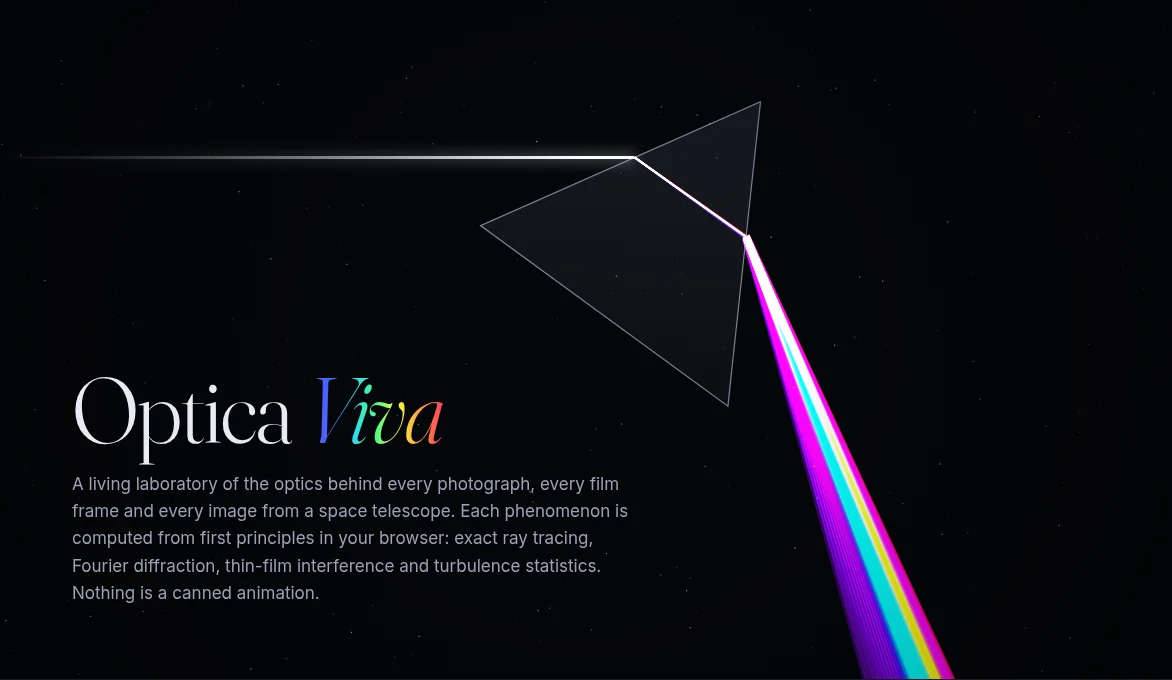
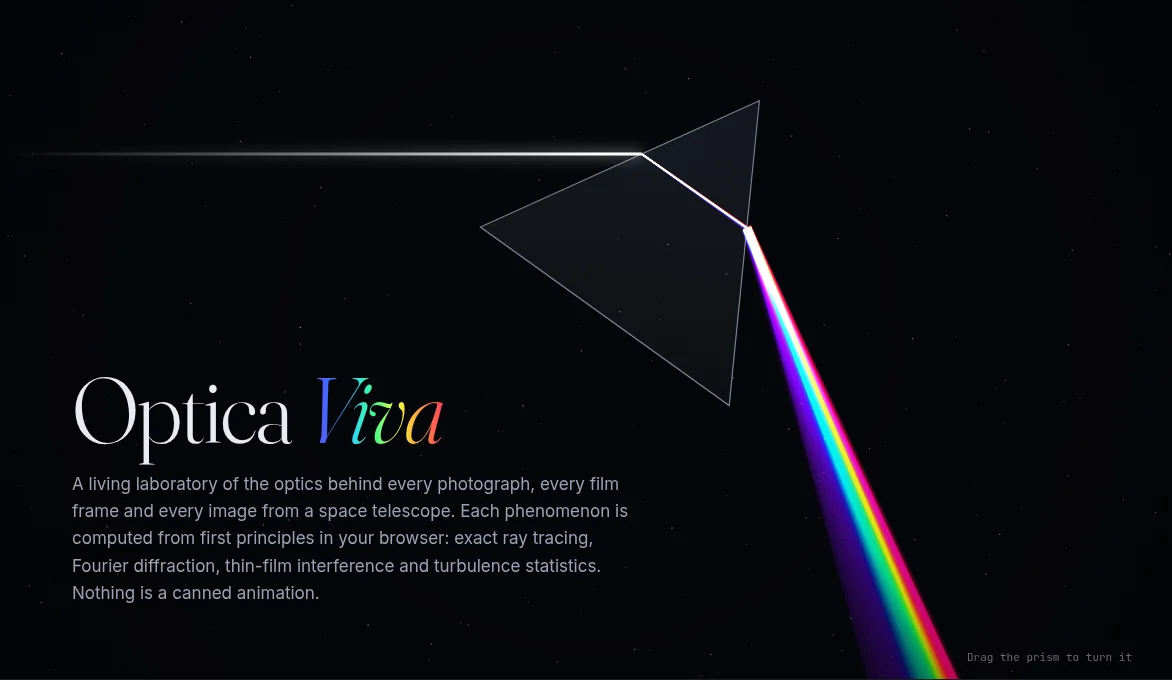
feat(home): card pictures from the real renders, featured labs, draggable hero (#260)
Every home-page card shows a snapshot of its laboratory, captured from
the running page by scripts/thumbs.mjs (npm run thumbs; 400×250 WebP,
lazy-loaded; beside the text on phones). The black hole, PSF and halos
are featured large. The hero spectrum is 90 thin rays whose colours sum
to white, and dragging sideways turns the prism. The "0 precomputed"
statistic now speaks of results computed in the laboratories.

diff --git a/js/modules/home.js b/js/modules/home.js
@@ -4,7 +4,8 @@ import { COUNT } from '../lib/phenomena.js';
 import { index, GLASS_NAMES } from '../lib/glass.js';
 import { LENSES } from '../lib/raytrace.js';
 import { t, N_ } from '../lib/i18n.js';
-import { wavelengthRGB } from '../lib/color.js';
+import { wavelengthRGB, oetf } from '../lib/color.js';
+import { FEATURED, thumbOf } from '../lib/thumbs.js';
 import { PATH } from '../lib/path.js';
 import { TOURS } from '../lib/tours.js';
 
@@ -16,9 +17,13 @@ const READ_2 = N_('Models are chosen to be the most exact that can run interacti
 function heroCanvas() {
   const canvas = h('canvas');
   const ctx = canvas.getContext('2d');
-  let raf, W = 0, H = 0, dpr = 1, mouseY = null;
-  const lambdas = Array.from({ length: 48 }, (_, i) => 400 + (300 * i) / 47);
-  const cols = lambdas.map((l) => wavelengthRGB(l).map((v) => Math.round(v * 255)));
+  let raf, W = 0, H = 0, dpr = 1, mouseY = null, turn = 0, drag = null;
+  // many thin rays whose linear colours are normalised so that together they make white: where
+  // they overlap, just outside the prism, the light is white again, and it fans out into a spectrum
+  const lambdas = Array.from({ length: 90 }, (_, i) => 400 + (300 * i) / 89);
+  const lin = lambdas.map((l) => wavelengthRGB(l, false));
+  const sum = [0, 1, 2].map((c) => lin.reduce((a, v) => a + v[c], 0));
+  const cols = lin.map((v) => { const u = v.map((x, c) => (x / sum[c]) * 26), m = Math.max(...u, 1); return u.map((x) => Math.round(oetf(x / m) * 255)); });
   const stars = Array.from({ length: 220 }, () => [Math.random(), Math.random(), Math.random() ** 3]);
 
   const resize = () => {
@@ -27,7 +32,17 @@ function heroCanvas() {
     canvas.width = W * dpr; canvas.height = H * dpr;
   };
   const ro = new ResizeObserver(resize); ro.observe(canvas);
-  canvas.addEventListener('pointermove', (e) => { const r = canvas.getBoundingClientRect(); mouseY = (e.clientY - r.top) / r.height; });
+  // the beam follows the pointer's height; dragging sideways turns the prism
+  const still = () => { if (reducedMotion()) { cancelAnimationFrame(raf); raf = requestAnimationFrame(frame); } };
+  canvas.addEventListener('pointermove', (e) => {
+    const r = canvas.getBoundingClientRect();
+    if (drag) turn = Math.max(-0.45, Math.min(0.45, drag.turn + ((e.clientX - drag.x) / r.width) * 1.6));
+    else if (e.pointerType === 'mouse') mouseY = (e.clientY - r.top) / r.height;
+    still();
+  });
+  canvas.addEventListener('pointerdown', (e) => { drag = { x: e.clientX, turn }; canvas.setPointerCapture(e.pointerId); canvas.classList.add('dragging'); });
+  const drop = () => { drag = null; canvas.classList.remove('dragging'); };
+  canvas.addEventListener('pointerup', drop); canvas.addEventListener('pointercancel', drop);
 
   function intersect(o, d, poly) {
     let best = null;
@@ -64,7 +79,7 @@ function heroCanvas() {
     const S = Math.min(W, H) * 0.42;
     const cx = W * 0.56, cy = H * 0.36;
     // orientation chosen so a horizontal beam meets the prism near minimum deviation
-    const rot = -Math.PI / 2 + 0.574 + 0.07 * Math.sin(t / 3400);
+    const rot = -Math.PI / 2 + 0.574 + turn + (drag ? 0 : 0.07 * Math.sin(t / 3400));
     const prism = [0, 1, 2].map((k) => [cx + S * 0.62 * Math.cos(rot + (k * 2 * Math.PI) / 3), cy + S * 0.62 * Math.sin(rot + (k * 2 * Math.PI) / 3)]);
     const midY = (prism[0][1] + prism[2][1]) / 2, span = Math.abs(prism[0][1] - prism[2][1]);
     const by = midY + span * (mouseY != null ? (mouseY - 0.5) * 0.6 : 0.12 * Math.sin(t / 2100));
@@ -95,15 +110,16 @@ function heroCanvas() {
         if (inside) return;
         const [r, g, bb] = cols[i];
         // inside the glass: faint
-        ctx.strokeStyle = `rgba(${r},${g},${bb},0.10)`; ctx.lineWidth = 2;
+        ctx.strokeStyle = `rgba(${r},${g},${bb},0.06)`; ctx.lineWidth = 2;
         ctx.beginPath(); pts.forEach((p, k) => (k ? ctx.lineTo(p[0], p[1]) : ctx.moveTo(p[0], p[1]))); ctx.stroke();
-        // emergent fan: glow + core
+        // emergent fan: a faint wide glow and a thin core, fading with distance
         const L = W * 1.5, end = [o[0] + d[0] * L, o[1] + d[1] * L];
         const g2 = ctx.createLinearGradient(o[0], o[1], end[0], end[1]);
-        g2.addColorStop(0, `rgba(${r},${g},${bb},0.55)`); g2.addColorStop(0.5, `rgba(${r},${g},${bb},0.18)`); g2.addColorStop(1, `rgba(${r},${g},${bb},0)`);
-        ctx.strokeStyle = g2; ctx.lineWidth = 7;
-        ctx.beginPath(); ctx.moveTo(o[0], o[1]); ctx.lineTo(end[0], end[1]); ctx.stroke();
-        ctx.lineWidth = 1.4; ctx.stroke();
+        g2.addColorStop(0, `rgba(${r},${g},${bb},0.30)`); g2.addColorStop(0.45, `rgba(${r},${g},${bb},0.12)`); g2.addColorStop(1, `rgba(${r},${g},${bb},0)`);
+        ctx.strokeStyle = g2;
+        ctx.beginPath(); ctx.moveTo(o[0], o[1]); ctx.lineTo(end[0], end[1]);
+        ctx.globalAlpha = 0.18; ctx.lineWidth = 9; ctx.stroke();
+        ctx.globalAlpha = 1; ctx.lineWidth = 1.5; ctx.stroke();
       });
     }
     ctx.globalCompositeOperation = 'source-over';
@@ -128,16 +144,26 @@ export default function mount(root) {
     h('div.hero', {}, hero.canvas,
       h('div.hero-text', {},
         h('h1', { html: 'Optica <em>Viva</em>' }),
-        h('p', {}, t('A living laboratory of the optics behind every photograph, every film frame and every image from a space telescope. Each phenomenon is computed from first principles in your browser: exact ray tracing, Fourier diffraction, thin-film interference and turbulence statistics. Nothing is a canned animation.')))),
+        h('p', {}, t('A living laboratory of the optics behind every photograph, every film frame and every image from a space telescope. Each phenomenon is computed from first principles in your browser: exact ray tracing, Fourier diffraction, thin-film interference and turbulence statistics. Nothing is a canned animation.'))),
+      h('span.hero-hint', { 'aria-hidden': 'true' }, t('Drag the prism to turn it'))),
   );
   const mods = MODULES.map(translated);
+  // a card's picture: a snapshot of the laboratory, captured from the running page
+  const pic = (id, big) => { const src = thumbOf(id); return src && READY.has(id) ? h('img.thumb', { src, alt: '', width: big ? 800 : 400, height: big ? 500 : 250, loading: big ? 'eager' : 'lazy', decoding: 'async' }) : null; };
+  const card = (m, href, kicker, title, blurb, cls = '') => {
+    const p = pic(m.id);
+    return h('a.mcard' + cls + (p ? '.has-thumb' : ''), { href, style: { '--c': m.c } }, p, h('div.mbody', {}, h('span.k', {}, kicker), h('h3', {}, title), h('p', {}, blurb)));
+  };
+  root.append(h('section.block.featured', {}, h('h2', {}, t('Featured laboratories')),
+    h('div.feat', {}, ...FEATURED.map((id) => mods.find((m) => m.id === id)).map((m) =>
+      h('a.fcard', { href: '#/' + m.id, style: { '--c': m.c } }, pic(m.id, true), h('div.fbody', {}, h('span.k', {}, m.group), h('h3', {}, m.title), h('p', {}, m.blurb)))))));
   const groups = [...new Set(mods.filter((m) => m.blurb).map((m) => m.group))];
   root.append(h('section.block', { style: { marginTop: '38px' } },
     h('div.stat-row', {},
       h('div.stat', {}, h('b', {}, `${[...READY].filter((id) => id !== 'home').length} / ${MODULES.length - 1}`), h('span', {}, READY.size >= MODULES.length ? t('interactive laboratories and reference pages') : t('laboratories live (the rest are in progress)'))),
       h('div.stat', {}, h('b', {}, String(COUNT)), h('span', {}, t('catalogued phenomena with governing equations'))),
       h('div.stat', {}, h('b', {}, String(GLASS_NAMES.length)), h('span', {}, t('real glasses (Sellmeier), {n} lens and telescope prescriptions', { n: Object.keys(LENSES).length }))),
-      h('div.stat', {}, h('b', {}, '0'), h('span', {}, t('precomputed images: everything is simulated live'))),
+      h('div.stat', {}, h('b', {}, '0'), h('span', {}, t('precomputed results: every laboratory computes its pictures live'))),
     )));
   let visited = new Set();
   try { visited = new Set(JSON.parse(localStorage.getItem('ov-visited') || '[]')); } catch { /* storage unavailable */ }
@@ -158,12 +184,12 @@ export default function mount(root) {
     h('p.lede', {}, t('A few minutes each: the tour moves the controls for you, one step at a time, and says what to look at.')),
     h('div.cards', {}, ...TOURS.map((tour) => {
       const m = mods.find((x) => x.id === tour.lab);
-      return h('a.mcard', { href: `#/${tour.lab}?tour=${tour.id}`, style: { '--c': m.c } }, h('span.k', {}, t('{lab} · {n} steps', { lab: m.title, n: tour.steps.length })), h('h3', {}, t(tour.title)), h('p', {}, t(tour.blurb)));
+      return card(m, `#/${tour.lab}?tour=${tour.id}`, t('{lab} · {n} steps', { lab: m.title, n: tour.steps.length }), t(tour.title), t(tour.blurb));
     }))));
   for (const g of groups) {
     root.append(h('section.block', {}, h('h2', {}, g),
       h('div.cards', {}, ...mods.filter((m) => m.group === g && m.blurb).map((m) =>
-        h('a.mcard' + (READY.has(m.id) ? '' : '.soon'), { href: '#/' + m.id, style: { '--c': m.c } }, h('span.k', {}, READY.has(m.id) ? m.group : m.group + ' · ' + t('coming soon')), h('h3', {}, m.title), h('p', {}, m.blurb))))));
+        card(m, '#/' + m.id, READY.has(m.id) ? m.group : m.group + ' · ' + t('coming soon'), m.title, m.blurb, READY.has(m.id) ? '' : '.soon')))));
   }
   root.append(h('section.block', {}, h('h2', {}, t('How to read this laboratory')),
     h('div.prose', { html: `<p>${t(READ_1)}</p><p>${t(READ_2)}</p>` })));

diff --git a/css/style.css b/css/style.css
@@ -190,14 +190,46 @@ button.btn:hover, a.btn:hover { border-color: var(--accent); }
 .hero-text { position: absolute; left: clamp(20px, 5vw, 72px); bottom: clamp(28px, 7vh, 72px); max-width: 640px; pointer-events: none; }
 .hero-text h1 { font: 300 clamp(44px, 7vw, 92px)/0.95 var(--font-serif); margin: 0 0 18px; letter-spacing: -0.02em; }
 .hero-text h1 em { font-style: italic; background: var(--spectrum); -webkit-background-clip: text; background-clip: text; color: transparent; }
+.hero canvas { cursor: grab; touch-action: pan-y; }
+.hero canvas.dragging { cursor: grabbing; }
+.hero-hint { position: absolute; right: clamp(16px, 3vw, 40px); bottom: 16px; font: 11px/1 var(--font-mono); color: var(--fg-faint); pointer-events: none; }
+/* featured laboratories: one large, two beside it */
+.feat { display: grid; grid-template-columns: minmax(0, 1.9fr) minmax(0, 1fr); grid-template-rows: auto auto; gap: 14px; }
+.fcard { position: relative; display: block; border-radius: var(--radius); border: 1px solid var(--line); overflow: hidden; color: var(--fg); text-decoration: none !important; background: #05060a; transition: border-color .2s; }
+.fcard:first-child { grid-row: span 2; }
+.fcard:hover { border-color: var(--line-2); }
+.fcard .thumb { display: block; width: 100%; height: 100%; aspect-ratio: 16 / 10; object-fit: cover; transition: transform .6s cubic-bezier(.2, .7, .2, 1); }
+.fcard:hover .thumb { transform: scale(1.025); }
+.fcard .fbody { position: absolute; inset: auto 0 0 0; padding: 40px 20px 16px; background: linear-gradient(180deg, transparent, rgba(5, 6, 10, .78) 45%, rgba(5, 6, 10, .94)); }
+.fcard h3 { font: 500 22px/1.2 var(--font-serif); margin: 0 0 4px; }
+.fcard:first-child h3 { font-size: 30px; }
+.fcard p { margin: 0; color: var(--fg-dim); font-size: 13.2px; line-height: 1.5; max-width: 60ch; }
+.fcard:not(:first-child) p { display: none; }
+.fcard .k { font: 600 10px/1 var(--font-sans); letter-spacing: .14em; text-transform: uppercase; color: var(--c); margin-bottom: 8px; display: block; }
+@media (max-width: 860px) { .feat { grid-template-columns: minmax(0, 1fr); } .fcard:first-child { grid-row: auto; } .fcard:first-child h3 { font-size: 24px; } }
+/* phones: a card's picture beside its text, and the featured cards without their blurb */
+@media (max-width: 600px) {
+  .mcard.has-thumb { flex-direction: row; min-height: 0; }
+  .mcard.has-thumb .thumb { width: 36%; flex: none; aspect-ratio: auto; height: auto; min-height: 112px; border-bottom: 0; border-right: 1px solid var(--line); }
+  .mcard.has-thumb .mbody { padding: 12px 14px; min-width: 0; }
+  .mcard.has-thumb h3 { font-size: 16px; }
+  .mcard.has-thumb p { font-size: 12.6px; display: -webkit-box; -webkit-line-clamp: 3; -webkit-box-orient: vertical; overflow: hidden; }
+  .fcard p { display: none; }
+}
 .hero-text p { color: var(--fg-dim); font-size: 17px; margin: 0; max-width: 54ch; text-shadow: 0 2px 12px #000; }
 .cards { display: grid; grid-template-columns: repeat(auto-fill, minmax(250px, 1fr)); gap: 14px; }
-.mcard { position: relative; display: block; padding: 18px; border-radius: var(--radius); border: 1px solid var(--line); background: linear-gradient(180deg, var(--panel-2), var(--panel)); color: var(--fg); text-decoration: none !important; overflow: hidden; transition: transform .2s, border-color .2s; min-height: 150px; }
+.mcard { position: relative; display: flex; flex-direction: column; padding: 0; border-radius: var(--radius); border: 1px solid var(--line); background: linear-gradient(180deg, var(--panel-2), var(--panel)); color: var(--fg); text-decoration: none !important; overflow: hidden; transition: transform .2s, border-color .2s; min-height: 150px; }
 .mcard:hover { transform: translateY(-3px); border-color: var(--line-2); }
 .mcard::before { content: ''; position: absolute; inset: -40% -40% auto auto; width: 160px; height: 160px; border-radius: 50%; background: radial-gradient(circle, var(--c), transparent 70%); opacity: .18; transition: opacity .2s; }
 .mcard:hover::before { opacity: .32; }
 .mcard h3 { font: 500 18px/1.25 var(--font-serif); margin: 0 0 6px; }
 .mcard p { margin: 0; color: var(--fg-dim); font-size: 13.2px; line-height: 1.5; }
+.mcard .mbody { position: relative; padding: 18px; }
+/* a card's picture: a snapshot of the laboratory, edge to edge above the text */
+.mcard .thumb { display: block; width: 100%; height: auto; aspect-ratio: 16 / 10; object-fit: cover; background: #05060a; border-bottom: 1px solid var(--line); filter: brightness(.88) saturate(.92); transition: filter .25s; }
+.mcard:hover .thumb, .mcard:focus-visible .thumb { filter: none; }
+.mcard.has-thumb::before { display: none; }
+.mcard.has-thumb .mbody { padding-top: 14px; }
 .mcard .k { font: 600 10px/1 var(--font-sans); letter-spacing: .14em; text-transform: uppercase; color: var(--c); margin-bottom: 10px; display: block; }
 .stat-row { display: grid; grid-template-columns: repeat(auto-fit, minmax(160px, 1fr)); gap: 14px; }
 .stat { padding: 14px 16px; border: 1px solid var(--line); border-radius: 12px; background: rgba(255, 255, 255, 0.015); }

diff --git a/js/locales/fr.js b/js/locales/fr.js
@@ -1,6 +1,8 @@
 // French interface strings, keyed by the English text (see js/lib/i18n.js).
 // test/i18n.test.mjs checks that every key is used and every interface string is here.
 export default {
+  "Featured laboratories": "Laboratoires à la une",
+  "Drag the prism to turn it": "Faites glisser le prisme pour le tourner",
   "Open the full laboratory in Optica Viva ↗": "Ouvrir le laboratoire complet dans Optica Viva ↗",
   "The interface is translated; the explanations on this page are still in English.": "L’interface est traduite ; les explications de cette page sont encore en anglais.",
   "This laboratory is under construction and will arrive in an upcoming release. See CHANGELOG.md for progress.": "Ce laboratoire est en construction et arrivera dans une prochaine version. Voir CHANGELOG.md pour l’avancement.",
@@ -87,7 +89,7 @@ export default {
   "laboratories live (the rest are in progress)": "laboratoires en ligne (les autres sont en cours)",
   "catalogued phenomena with governing equations": "phénomènes catalogués avec leurs équations",
   "real glasses (Sellmeier), {n} lens and telescope prescriptions": "verres réels (Sellmeier), {n} formules d’objectifs et de télescopes",
-  "precomputed images: everything is simulated live": "images précalculées : tout est simulé en direct",
+  "precomputed results: every laboratory computes its pictures live": "résultats précalculés : chaque laboratoire calcule ses images en direct",
   "Start here": "Commencer ici",
   "New to optics? Follow this path from everyday photography to the research frontier. Each page starts with the idea in plain words and builds up to the full physics, so stop wherever you like; the order is only a suggestion.": "Débutant en optique ? Suivez ce parcours de la photographie de tous les jours jusqu’au front de la recherche. Chaque page commence par l’idée en mots simples et monte jusqu’à la physique complète ; arrêtez-vous où vous voulez, l’ordre n’est qu’une suggestion.",
   "(opened before)": "(déjà ouvert)",

diff --git a/js/locales/es.js b/js/locales/es.js
@@ -1,6 +1,8 @@
 // Spanish interface strings, keyed by the English text (see js/lib/i18n.js).
 // test/i18n.test.mjs checks that every key is used and every interface string is here.
 export default {
+  "Featured laboratories": "Laboratorios destacados",
+  "Drag the prism to turn it": "Arrastra el prisma para girarlo",
   "Open the full laboratory in Optica Viva ↗": "Abrir el laboratorio completo en Optica Viva ↗",
   "The interface is translated; the explanations on this page are still in English.": "La interfaz está traducida; las explicaciones de esta página siguen en inglés.",
   "This laboratory is under construction and will arrive in an upcoming release. See CHANGELOG.md for progress.": "Este laboratorio está en construcción y llegará en una próxima versión. Consulta CHANGELOG.md para ver el avance.",
@@ -87,7 +89,7 @@ export default {
   "laboratories live (the rest are in progress)": "laboratorios disponibles (el resto está en preparación)",
   "catalogued phenomena with governing equations": "fenómenos catalogados con sus ecuaciones",
   "real glasses (Sellmeier), {n} lens and telescope prescriptions": "vidrios reales (Sellmeier), {n} prescripciones de objetivos y telescopios",
-  "precomputed images: everything is simulated live": "imágenes precalculadas: todo se simula en directo",
+  "precomputed results: every laboratory computes its pictures live": "resultados precalculados: cada laboratorio calcula sus imágenes en directo",
   "Start here": "Empieza aquí",
   "New to optics? Follow this path from everyday photography to the research frontier. Each page starts with the idea in plain words and builds up to the full physics, so stop wherever you like; the order is only a suggestion.": "¿Nuevo en la óptica? Sigue este camino desde la fotografía de todos los días hasta la frontera de la investigación. Cada página empieza con la idea en palabras sencillas y sube hasta la física completa; detente donde quieras, el orden es solo una sugerencia.",
   "(opened before)": "(ya abierta)",

diff --git a/js/locales/de.js b/js/locales/de.js
@@ -1,6 +1,8 @@
 // German interface strings, keyed by the English text (see js/lib/i18n.js).
 // test/i18n.test.mjs checks that every key is used and every interface string is here.
 export default {
+  "Featured laboratories": "Ausgewählte Labore",
+  "Drag the prism to turn it": "Prisma ziehen, um es zu drehen",
   "Open the full laboratory in Optica Viva ↗": "Das vollständige Labor in Optica Viva öffnen ↗",
   "The interface is translated; the explanations on this page are still in English.": "Die Oberfläche ist übersetzt; die Erklärungen auf dieser Seite sind noch auf Englisch.",
   "This laboratory is under construction and will arrive in an upcoming release. See CHANGELOG.md for progress.": "Dieses Labor ist im Aufbau und kommt mit einer der nächsten Versionen. Den Fortschritt zeigt CHANGELOG.md.",
@@ -87,7 +89,7 @@ export default {
   "laboratories live (the rest are in progress)": "Labore online (die übrigen sind in Arbeit)",
   "catalogued phenomena with governing equations": "katalogisierte Phänomene mit ihren Gleichungen",
   "real glasses (Sellmeier), {n} lens and telescope prescriptions": "echte Gläser (Sellmeier), {n} Objektiv- und Teleskop-Rezepturen",
-  "precomputed images: everything is simulated live": "vorberechnete Bilder: alles wird live simuliert",
+  "precomputed results: every laboratory computes its pictures live": "vorberechnete Ergebnisse: jedes Labor berechnet seine Bilder live",
   "Start here": "Hier anfangen",
   "New to optics? Follow this path from everyday photography to the research frontier. Each page starts with the idea in plain words and builds up to the full physics, so stop wherever you like; the order is only a suggestion.": "Neu in der Optik? Folge diesem Pfad von der Alltagsfotografie bis zur Forschungsfront. Jede Seite beginnt mit der Idee in einfachen Worten und baut bis zur vollständigen Physik auf; hör auf, wo du willst, die Reihenfolge ist nur ein Vorschlag.",
   "(opened before)": "(schon geöffnet)",

diff --git a/js/lib/thumbs.js b/js/lib/thumbs.js
@@ -1,0 +1,6 @@
+// Pictures on the home page's cards: img/thumbs/<lab>.webp, captured from the running laboratory
+// by scripts/thumbs.mjs (npm run thumbs). Pages without a picture keep a text card; FEATURED
+// laboratories are shown large at the top, captured at twice the size.
+export const NO_THUMB = new Set(['foundations', 'catalogue']);
+export const FEATURED = ['blackhole', 'psf', 'atmospheric'];
+export const thumbOf = (id) => (NO_THUMB.has(id) ? null : `img/thumbs/${id}.webp`);

diff --git a/CLAUDE.md b/CLAUDE.md
@@ -12,7 +12,7 @@ Use the most precise model that runs interactively, and state every approximatio
 - Static HTML/CSS + vanilla ES modules. **No build step, no runtime dependencies** except vendored KaTeX (`vendor/katex/`). Must work offline.
 - Run: `npm start` (= `python3 -m http.server 8000`). Hash router: `#/<lab-id>`. Live site: https://iiogurt.github.io/Optica_Viva/ (deployed from `main` by `.github/workflows/pages.yml`; keep all paths relative). The deployed site is assembled by `scripts/site.mjs` from an explicit list (`SITE`); a new top-level runtime file must be added there. `npm run smoke` runs against that assembled site, and `test/site.test.mjs` checks it holds every precached, manifest, `index.html` and `js/` reference.
 - `js/app.js`: lab registry (`MODULES`) and `READY` set. `js/lib/`: numerical core (fft, color, glass, raytrace, pupil, thinfilm, sensors, phenomena, plot, ui, page). `js/modules/<id>.js`: one page each, exporting `mount(root, meta)` that returns a cleanup function.
-- New lab: create the module, register it in `MODULES` and `READY`, link it from `js/lib/phenomena.js`, add a screenshot entry in `scripts/screenshots.mjs`. Whenever files are added to or removed from `css/`, `js/`, `img/`, `icons/` or the vendored KaTeX, run `node scripts/precache.mjs --write` (the service worker's offline list; `npm run check` fails otherwise).
+- New lab: create the module, register it in `MODULES` and `READY`, link it from `js/lib/phenomena.js`, add a screenshot entry in `scripts/screenshots.mjs`, and capture its home-page card picture with `npm run thumbs -- <id>` (`test/thumbs.test.mjs` fails without it). Whenever files are added to or removed from `css/`, `js/`, `img/`, `icons/` or the vendored KaTeX, run `node scripts/precache.mjs --write` (the service worker's offline list; `npm run check` fails otherwise).
 - Explanation ladder (simple → exact, all visible, no level switch): after `header()`, `idea(html, tries)` gives the phenomenon in plain words (no math, ≤ 120 words, aimed at ~9 years of schooling, every term explained, at most one analogy that says where it breaks) and 1–3 "try it" prompts (predict, then check). The live calculation calls `calc.say(html)` with the result in a sentence before the equations. Before `theory()`, `rule(html, limits)` gives one formula, a worked number and where it stops working. New technical terms used in page text get a one-sentence definition in `js/lib/glossary.js` (marked automatically on first use); a known misconception can get a predict-then-reveal question in `js/lib/misconceptions.js`. `test/ladder.test.mjs` enforces the ladder on every lab in `READY` (pages without a live calculation, like `foundations`, skip `say`).
 - Interface strings: wrap them in `t('English text')` (or mark with `N_()` and translate with `t(variable)`) from `js/lib/i18n.js` and add the translation to every `js/locales/*.js`; `test/i18n.test.mjs` fails otherwise. New laboratory titles and blurbs in `MODULES`, control labels, options and hints, readout names, figure captions and `liveCalc()` titles count as interface strings (the toolkit translates them; write them as complete literals). Laboratory explanations stay English for now.
 - Style: match the surrounding code; dark design system in `css/style.css`. Theory text goes in `String.raw` templates with `\( \)` / `\[ \]` math (never `$`). Never put a `//` comment inside a one-line `{ … }` block.

diff --git a/ROADMAP.md b/ROADMAP.md
@@ -78,7 +78,7 @@ flowchart LR
 | Laboratories | 64 pages, including 9 missions and the reference pages | see Planned milestones |
 | Catalogue entries | 239, each with details and a worked example | link every new lab |
 | Lens prescriptions | 15: camera lenses from the Petzval to the Biogon, Hubble, a Cassegrain and a three-mirror anastigmat; aspheres, mirrors, model glasses and file import | (none planned) |
-| Automated tests | 477 tests (physics, blur, lens I/O, ghosts, bokeh, polarisation, macro, colour, AO) + link check + browser smoke test in CI | more coverage per new lab |
+| Automated tests | 478 tests (physics, blur, lens I/O, ghosts, bokeh, polarisation, macro, colour, AO) + link check + browser smoke test in CI | more coverage per new lab |
 | Deployment | GitHub Pages, deployed from `main` by CI | (none) |
 
 ---
@@ -567,7 +567,7 @@ Candidates, in order of how much the third dimension adds:
 - [x] **P1 · M** **Stage-first laboratory layout**: the picture and its controls start on the first screen and the page tools take one row. *From 1600 px the idea, the things to try, the intuition check and the tour are a column beside the simulation; below that they stay above it in a shorter block (three columns would shrink the picture by a third).*
 - [x] **P1 · M** **Chart redesign**: legends outside the plot area, a hover readout on every chart, and any figure enlarged to the window on demand. *The readout is linked to the picture on the PSF page (`st.hover`, `st.mark`, `st.over` in `js/lib/ui.js`); other pages can follow.*
 - [x] **P1 · L** **Image pipeline**: one shared path that renders at device pixels, shows a fast preview and refines when idle, with one tone curve and dithering. *`js/lib/pixels.js` (Catmull–Rom sampling, a tone curve with a soft toe, an sRGB table, dithering, a half-resolution preview refined in slices) draws the PSF, pupil and black-hole pictures; the black hole is traced again at the canvas's resolution with 2×2 rays per pixel. `paintMap` (a field through a colour table, with masks whose outer edge is sharpened) draws the Zernike, ray-tracer, coronagraph, lucky-imaging and interferometry pictures. Other laboratories can move to it when they are next changed; animations such as seeing keep the browser's scaling, which is fast enough per frame. Wide-gamut output moved to the backlog.*
-- [ ] **P2 · M** **Live home page**: a thumbnail of the real render on every card, a few featured laboratories shown large, and a hero that can be dragged.
+- [x] **P2 · M** **Live home page**: a picture of the real render on every card, a few featured laboratories shown large, and a hero that can be dragged. *Card pictures are snapshots captured from the running laboratories (`npm run thumbs`, 400 × 250 WebP, about 6 KB each, loaded as the page scrolls); on phones the picture sits beside the text. The black hole, the PSF and the halos are featured. The hero's spectrum is 90 thin rays whose colours add up to white, and dragging sideways turns the prism.*
 - [ ] **P2 · M** **Motion**: tween between parameter states and animate page changes, respecting reduced motion.
 - [ ] **P2 · L** **3-D materials**: glass with reflections and edge highlights, soft shadows, label collision avoidance, tighter framing.
 - [ ] **P3 · M** **Phone layout**: the picture pinned above the controls sheet.

diff --git a/README.md b/README.md
@@ -853,6 +853,7 @@ Optica_Viva/
 ├── css/style.css              Design system: dark theme, lab layout, controls
 ├── css/fonts.css              @font-face rules for the vendored typefaces
 ├── img/gallery/               Photographs for Phenomena in the wild (public domain and CC BY 4.0)
+├── img/thumbs/                Home-page card pictures, captured from the running laboratories (npm run thumbs)
 ├── js/
 │   ├── app.js                 Laboratory registry, hash router, navigation, interface language
 │   ├── locales/               Interface translations (de, fr, es), keyed by the English text
@@ -957,6 +958,7 @@ Optica_Viva/
 │   │   ├── pupil.js           Apertures (Hubble/JWST/Keck/ELT), Zernike, PSF, Bessel
 │   │   ├── survey.js          Survey mission: DORI pixel densities, drone GSD, shutter and overlap
 │   │   ├── thinfilm.js        Fresnel equations, transfer-matrix coatings
+│   │   ├── thumbs.js          Home-page card pictures: which laboratories have one, which are featured
 │   │   ├── satellite.js       Satellite mission: focal length, mirror, TDI stages, data rate
 │   │   ├── sensors.js         Sensor and film formats
 │   │   ├── phenomena.js       Catalogue data (228 entries in 13 groups)
@@ -984,6 +986,7 @@ Optica_Viva/
 │   ├── release.sh             prepare: release PR (date changelog, bump) · publish: tag + GitHub release
 │   ├── worktree.sh            new / finish: one git worktree per branch, cleanup after merge
 │   ├── screenshots.mjs        Regenerates docs/screenshots (CDP, WebP)
+│   ├── thumbs.mjs             Captures img/thumbs, the home page's card pictures (CDP, WebP)
 │   └── lib/browser.mjs        Dependency-free Chrome DevTools Protocol driver
 ├── CHANGELOG.md               Keep a Changelog
 ├── ROADMAP.md                 Completed and planned milestones

diff --git a/CHANGELOG.md b/CHANGELOG.md
@@ -6,6 +6,15 @@ The format follows [Keep a Changelog](https://keepachangelog.com/en/1.1.0/), and
 
 ## [Unreleased]
 
+### Added
+- **A picture on every home-page card**: a snapshot of the laboratory's own render, captured from the running page by `npm run thumbs` (`scripts/thumbs.mjs`, 400 × 250 WebP, loaded as the page scrolls). Guided tours show their laboratory's picture too; on phones the picture sits beside the text. `test/thumbs.test.mjs` checks that every card has its picture at the right size.
+- **Featured laboratories**: the black hole, the PSF and the halos shown large below the hero.
+- **The hero prism can be dragged**: sideways turns it. A short hint says so.
+
+### Changed
+- **Hero spectrum**: 90 thin rays whose colours together make white, with a faint glow, instead of 48 broad saturated bands. The beam still follows the mouse, and the picture redraws when you drag or point even with reduced motion.
+- The home page's statistic now reads "0 precomputed results: every laboratory computes its pictures live", since the card pictures are stored snapshots.
+
 ## [1.37.0] - 2026-11-11
 
 ### Changed

diff --git a/CONTRIBUTING.md b/CONTRIBUTING.md
@@ -35,7 +35,7 @@ flowchart LR
 2. Register it in `MODULES` and `READY` in [`js/app.js`](js/app.js).
 3. Link it from the matching entries in [`js/lib/phenomena.js`](js/lib/phenomena.js).
 4. Put reusable physics in `js/lib/` (pure functions) and test it in `test/`.
-5. Add a crop entry in [`scripts/screenshots.mjs`](scripts/screenshots.mjs) and a gallery tile in the README.
+5. Add a crop entry in [`scripts/screenshots.mjs`](scripts/screenshots.mjs) and a gallery tile in the README, and capture the home page's card picture: `npm run thumbs -- <id>`.
 6. Run `node scripts/precache.mjs --write` so the new files are part of the offline app (`npm run check` reminds you). Files in `css/`, `js/`, `img/`, `icons/` and `vendor/` are deployed automatically; a new top-level runtime file must be added to `SITE` in `scripts/site.mjs`.
 
 Controls created with `controls()` are automatically shareable through the URL, and on phones they slide into a bottom sheet; there is nothing extra to do.

diff --git a/.github/pull_request_template.md b/.github/pull_request_template.md
@@ -8,4 +8,4 @@
 - [ ] Theory text states assumptions and cites a primary reference
 - [ ] `CHANGELOG.md` updated under `## [Unreleased]`
 - [ ] `ROADMAP.md` items ticked or added; README updated if affected
-- [ ] Screenshots regenerated (`npm run screenshots -- <page>`) if visuals changed
+- [ ] Screenshots regenerated (`npm run screenshots -- <page>`) if visuals changed, and the card picture (`npm run thumbs -- <page>`)
